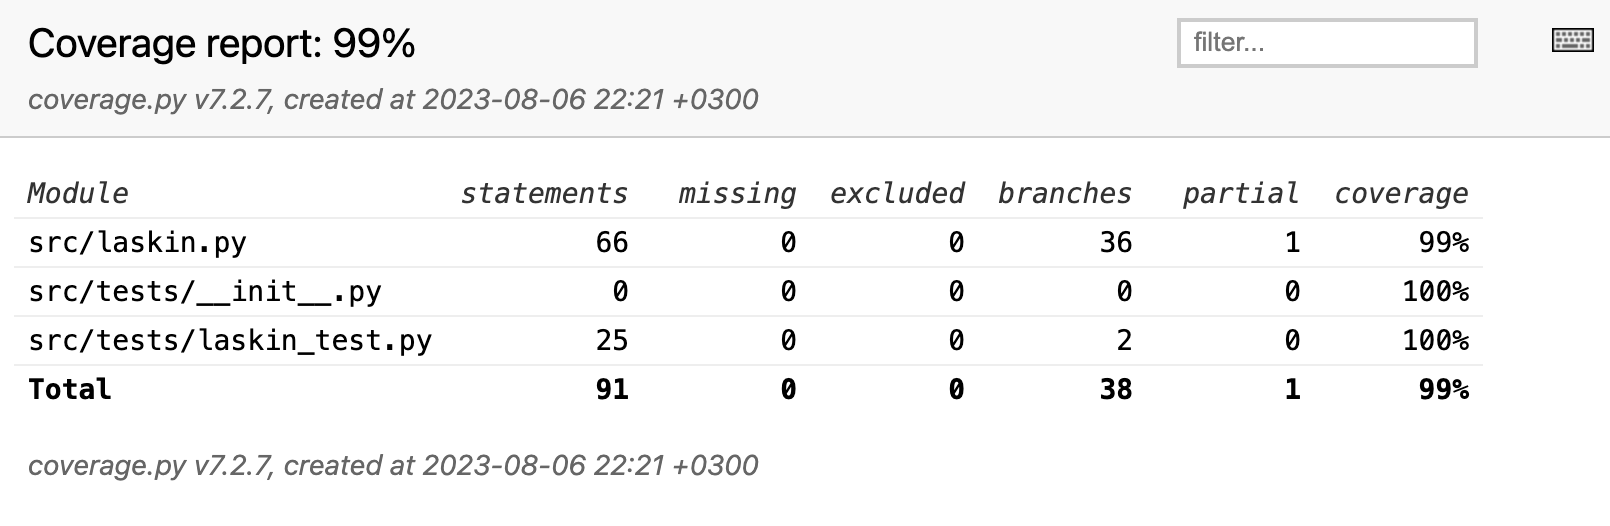
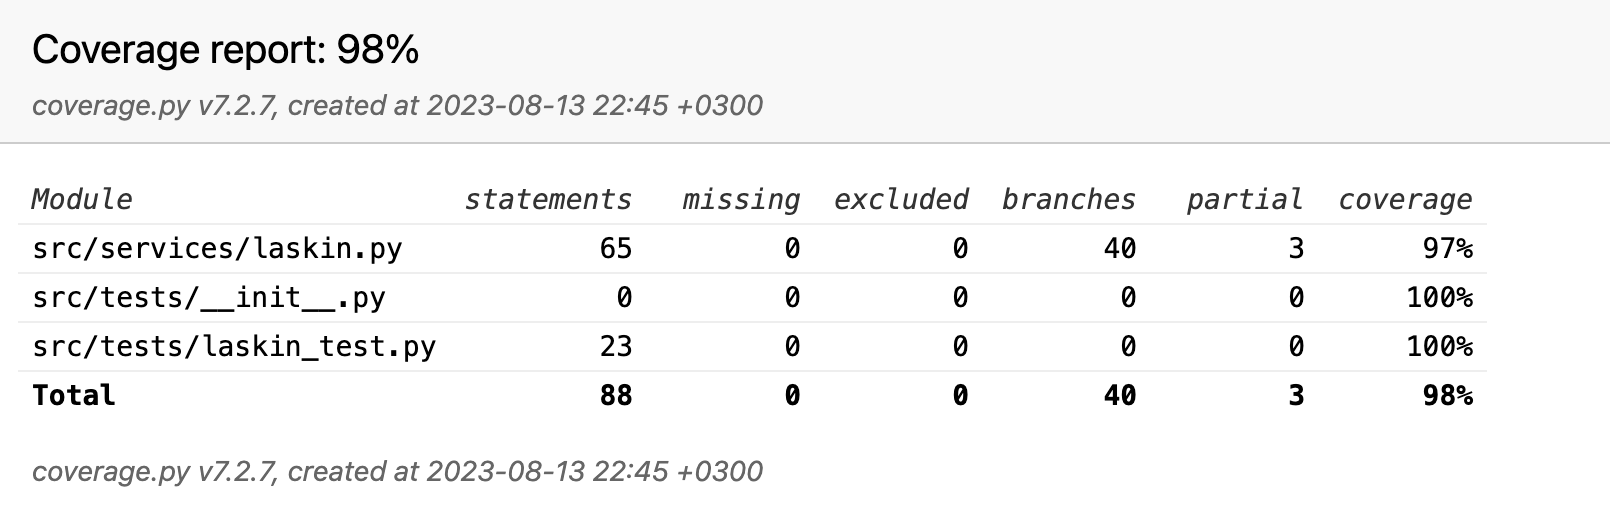
dokumentaatiota

diff --git a/src/tests/laskin_test.py b/src/tests/laskin_test.py
@@ -10,7 +10,7 @@ class TestLaskin(unittest.TestCase):
         self.syote2 = "3^3"
 
     def test_laskimen_tulos_alustetaan_oikein(self):
-        self.assertEqual(self.laskin._tulos, None)
+        self.assertEqual(self.laskin.tulos, None)
 
     def test_tokenize_toimii(self):
         self.assertEqual(self.laskin.tokenize(self.syote), ["(", Decimal(

diff --git a/src/services/laskin.py b/src/services/laskin.py
@@ -62,6 +62,7 @@ class Laskin:
             postfix.append(operaattorit.pop())
         return postfix
 
+
     def precedence(self, operaattori):
         """Palauttaa operaattorin prioriteetin.
 

diff --git a/dokumentaatio/toteutusdokumentti.md b/dokumentaatio/toteutusdokumentti.md
@@ -1,0 +1,14 @@
+# Toteutusdokumentti
+
+## Ohjelman yleisrakenne
+
+- hakemistossa src sijaitseva main.py käynnistää käyttöliittymän.
+- hakemistossa ui sijaitseva ui.py sisältää sovelluksen käyttöliittymän koodin.
+- services-hakemistossa sijaitseva laskin.py, sisältää sovelluslogiikan toteuttavan `Laskin`-luokan.
+    - tarjoaa käyttöliittymälle metodin `laske()`
+
+## Puutteet ja parannusehdotukset
+- Tällä hetkellä rakenne on vielä puuttellinen ja parannuksia on tulossa.
+
+**Lähteet:** 
+["Shunting yard algorithm", Wikipedia](https://en.wikipedia.org/wiki/Shunting_yard_algorithm)

diff --git a/dokumentaatio/testausdokumentti.md b/dokumentaatio/testausdokumentti.md
@@ -1,2 +1,27 @@
+# Testausdokumentti
+
 ## Testauskattavuus
 ![testausdokumentti](https://github.com/eerolasi/tiralabra/blob/main/dokumentaatio/testauskattavuus.png)
+
+
+## Testattu
+Sovelluslogiikka on testattu automaattisella yksikkötestauksella.
+
+## Testien suorittaminen
+GitHub Actions suorittaa testit aina GitHubiin uuden koodin pushauksen yhteydessä.
+
+### Käynnistä virtuaaliympäristö juurihakemistossa
+```
+poetry shell
+```
+### Suorita testit
+```
+poetry run invoke test
+```
+
+### Testauskattavuusraportti
+
+```
+poetry run invoke coverage
+```
+

diff --git a/README.md b/README.md
@@ -10,3 +10,5 @@
 - [Viikkoraportti 1](https://github.com/eerolasi/tiralabra/blob/main/dokumentaatio/viikkoraportti1.md)
 - [Viikkoraportti 2](https://github.com/eerolasi/tiralabra/blob/main/dokumentaatio/viikkoraportti2.md)
 - [Viikkoraportti 3](https://github.com/eerolasi/tiralabra/blob/main/dokumentaatio/viikkoraportti3.md)
+- [Viikkoraportti 4](https://github.com/eerolasi/tiralabra/blob/main/dokumentaatio/viikkoraportti4.md)
+

diff --git a/dokumentaatio/viikkoraportti4.md b/dokumentaatio/viikkoraportti4.md
@@ -1,0 +1,8 @@
+# Viikkoraportti 4
+
+- Loin sovellukselle graafisen käyttöliittymän, johon kului suurin osa ajasta.
+- Lisäsin mahdollisuuden potenssilaskuun.
+- Muutin hieman ohjelman rakennetta, tätä pitää vielä jatkaa.
+- Kirjoitin dokumentteja.
+
+Käytin aikaa noin 10 tuntia
